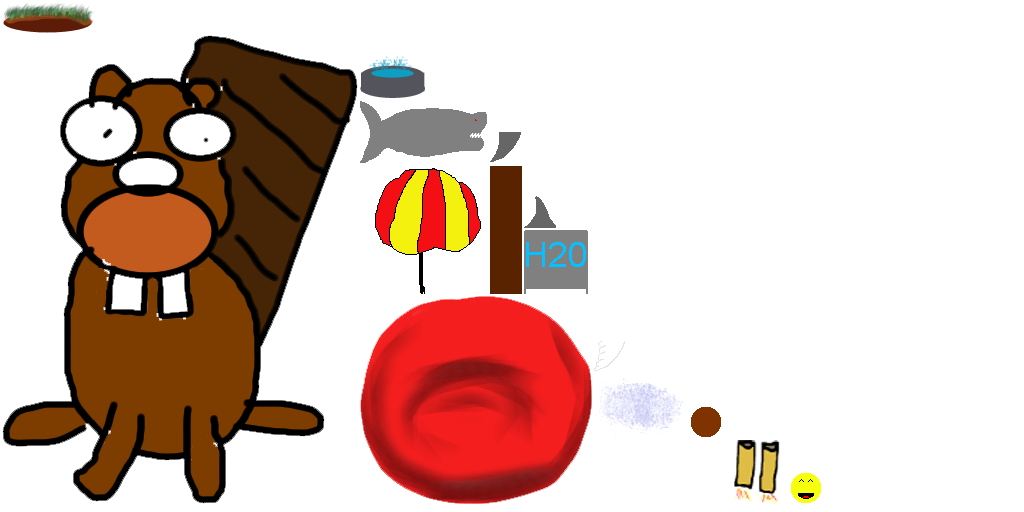
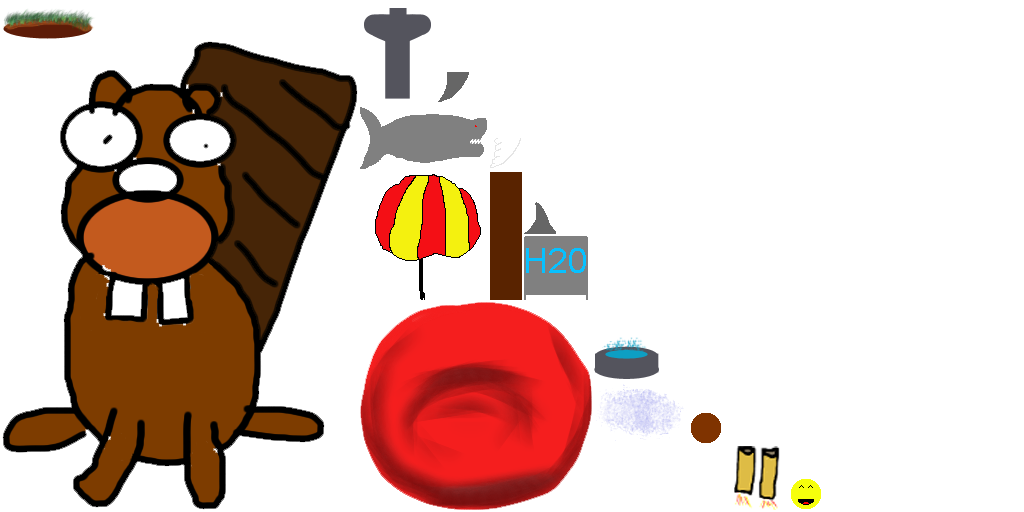
moar particles

diff --git a/BeaversMustDie/src/com/kevlanche/beaversmustdie/GameScreen.java b/BeaversMustDie/src/com/kevlanche/beaversmustdie/GameScreen.java
@@ -155,10 +155,11 @@ public class GameScreen extends InputAdapter implements Screen{
 			} while (notDone);
 
 
-			Island island = addIsland((float)angle, size, 1.0f + i/10.0f, MathUtils.random(1, 2),MathUtils.random(1, 2), MathUtils.random(0, 1));
+			Island island = addIsland((float)angle, size, 1.0f + i/10.0f, Math.max(1, MathUtils.random(1, 4)/2));
 
 			
-			gameStage.addActor(new Beaver(physicsWorld, island));
+			if (MathUtils.randomBoolean())
+				gameStage.addActor(new Beaver(physicsWorld, island));
 
 		}
 		
@@ -180,21 +181,23 @@ public class GameScreen extends InputAdapter implements Screen{
 		zoom = 1.0f;
 	}
 
-	private Island addIsland(float ang, float size, float len, int numSilos,int numPools,int numTowers) {
+	private Island addIsland(float ang, float size, float len, int numWaterSources) {
 		Island island = new Island(physicsWorld, ang, size, len * Water.WATER_RADIUS);
 		gameStage.addActor(island);
-		for (int i=0; i<numSilos; ++i) {
-			gameStage.addActor(new Silo(physicsWorld, island, MathUtils.random()));
+		for (int i=0; i<numWaterSources; ++i) {
+			switch (MathUtils.random(0, 2)) {
+				case 0:
+					gameStage.addActor(new Silo(physicsWorld, island, MathUtils.random()));
+					break;
+				case 1:
+					gameStage.addActor(new Pool(physicsWorld, island, MathUtils.random()));
+					break;
+				case 2:
+					gameStage.addActor(new WaterTower(physicsWorld, island, MathUtils.random()));
+					break;
+			}
 		}
-		for (int i=0; i<numPools; ++i) {
-			gameStage.addActor(new Pool(physicsWorld, island, MathUtils.random()));
-		}
-		for (int i=0; i<numTowers; ++i) {
-			gameStage.addActor(new WaterTower(physicsWorld, island, MathUtils.random()));
-		}
-		waterSources += numSilos;
-		waterSources += numPools;
-		waterSources += numTowers;
+		this.waterSources += numWaterSources;
 		
 		return island;
 
@@ -309,20 +312,17 @@ public class GameScreen extends InputAdapter implements Screen{
 		for (Silo s : silosToBoom) {
 			rmPool(s, 0.75f);
 		}
-
 		silosToBoom.clear();
 		
 		for (Pool p : poolsToBoom) {
 			rmPool(p, 0.95f);
 		}
-		
 		poolsToBoom.clear();
 		
 		
 		for (WaterTower t : towerToBoom) {
 			rmPool(t, 1.15f);
 		}
-		
 		towerToBoom.clear();
 		
 		

diff --git a/BeaversMustDie/src/com/kevlanche/beaversmustdie/Shark.java b/BeaversMustDie/src/com/kevlanche/beaversmustdie/Shark.java
@@ -137,6 +137,20 @@ public class Shark extends PhysicsActor {
 				inWater = true;
 				jumpCooldown = Math.min(jumpCooldown, 0.25f);
 				listener.onSharkDidSweetJumpFor(airTime);
+				
+				ParticleEffect pe = ParticlePool.get();
+				pe.setColor(Color.CYAN);
+				float ang = getRotation();
+				Vector2 sides = new Vector2( getWidth(), getHeight());
+				sides.rotate(ang);
+				Vector2 mid = new Vector2(	getX() + sides.x/2,
+											getY() + sides.y/2
+											);
+				pe.setPosition(mid.x - getWidth()/2, mid.y - getHeight()/2);
+				pe.setSize(getWidth(), getHeight());
+				pe.init(Assets.bottom_fin_wing, 50.0f, 10, Mane.PTM_RATIO/3);
+				getParent().addActor(pe);
+				
 			} else {
 				if (jumpCooldown <= 0.0f) {
 					canJump = true;
@@ -156,6 +170,20 @@ public class Shark extends PhysicsActor {
 			if (inWater) {
 				inWater = false;
 				airTime = delta;
+				
+				ParticleEffect pe = ParticlePool.get();
+				pe.setColor(Color.CYAN);
+				float ang = getRotation();
+				Vector2 sides = new Vector2( getWidth(), getHeight());
+				sides.rotate(ang);
+				Vector2 mid = new Vector2(	getX() + sides.x/2,
+											getY() + sides.y/2
+											);
+				pe.setPosition(mid.x - getWidth()/2, mid.y - getHeight()/2);
+				pe.setSize(getWidth(), getHeight());
+				pe.init(Assets.bottom_fin_wing, 50.0f, 10, Mane.PTM_RATIO/3);
+				getParent().addActor(pe);
+				
 			} else {
 				airTime += delta;
 				listener.onSharkIsDoingSweetJumpFor(airTime);

diff --git a/BeaversMustDie/src/com/kevlanche/beaversmustdie/Assets.java b/BeaversMustDie/src/com/kevlanche/beaversmustdie/Assets.java
@@ -9,7 +9,7 @@ public class Assets {
 	
 	public static TextureAtlas atlas;
 	
-	public static TextureRegion alphabet, smiley, earthCore, island, pole, silo, cloud, beaver, blood, pool;
+	public static TextureRegion alphabet, smiley, earthCore, island, pole, silo, cloud, beaver, blood, pool, tower;
 	
 	public static TextureRegion shark ;
 	public static TextureRegion bottom_fin_default, bottom_fin_wing, bottom_fin_dynamite;
@@ -30,6 +30,7 @@ public class Assets {
 		beaver = find("beaver");
 		blood = find("blood");
 		pool = find("pool");
+		tower = find("tower");
 		
 		top_fin_default = find("top_fin_default");
 		top_fin_baloon = find("top_fin_baloon");

diff --git a/BeaversMustDie/src/com/kevlanche/beaversmustdie/WaterTower.java b/BeaversMustDie/src/com/kevlanche/beaversmustdie/WaterTower.java
@@ -75,7 +75,7 @@ public class WaterTower extends PhysicsActor {
 
 	@Override
 	public void draw(SpriteBatch batch, float parentAlpha) {
-		super.draw(batch, parentAlpha, Assets.pole);
+		super.draw(batch, parentAlpha, Assets.tower);
 	}
 	
 }
